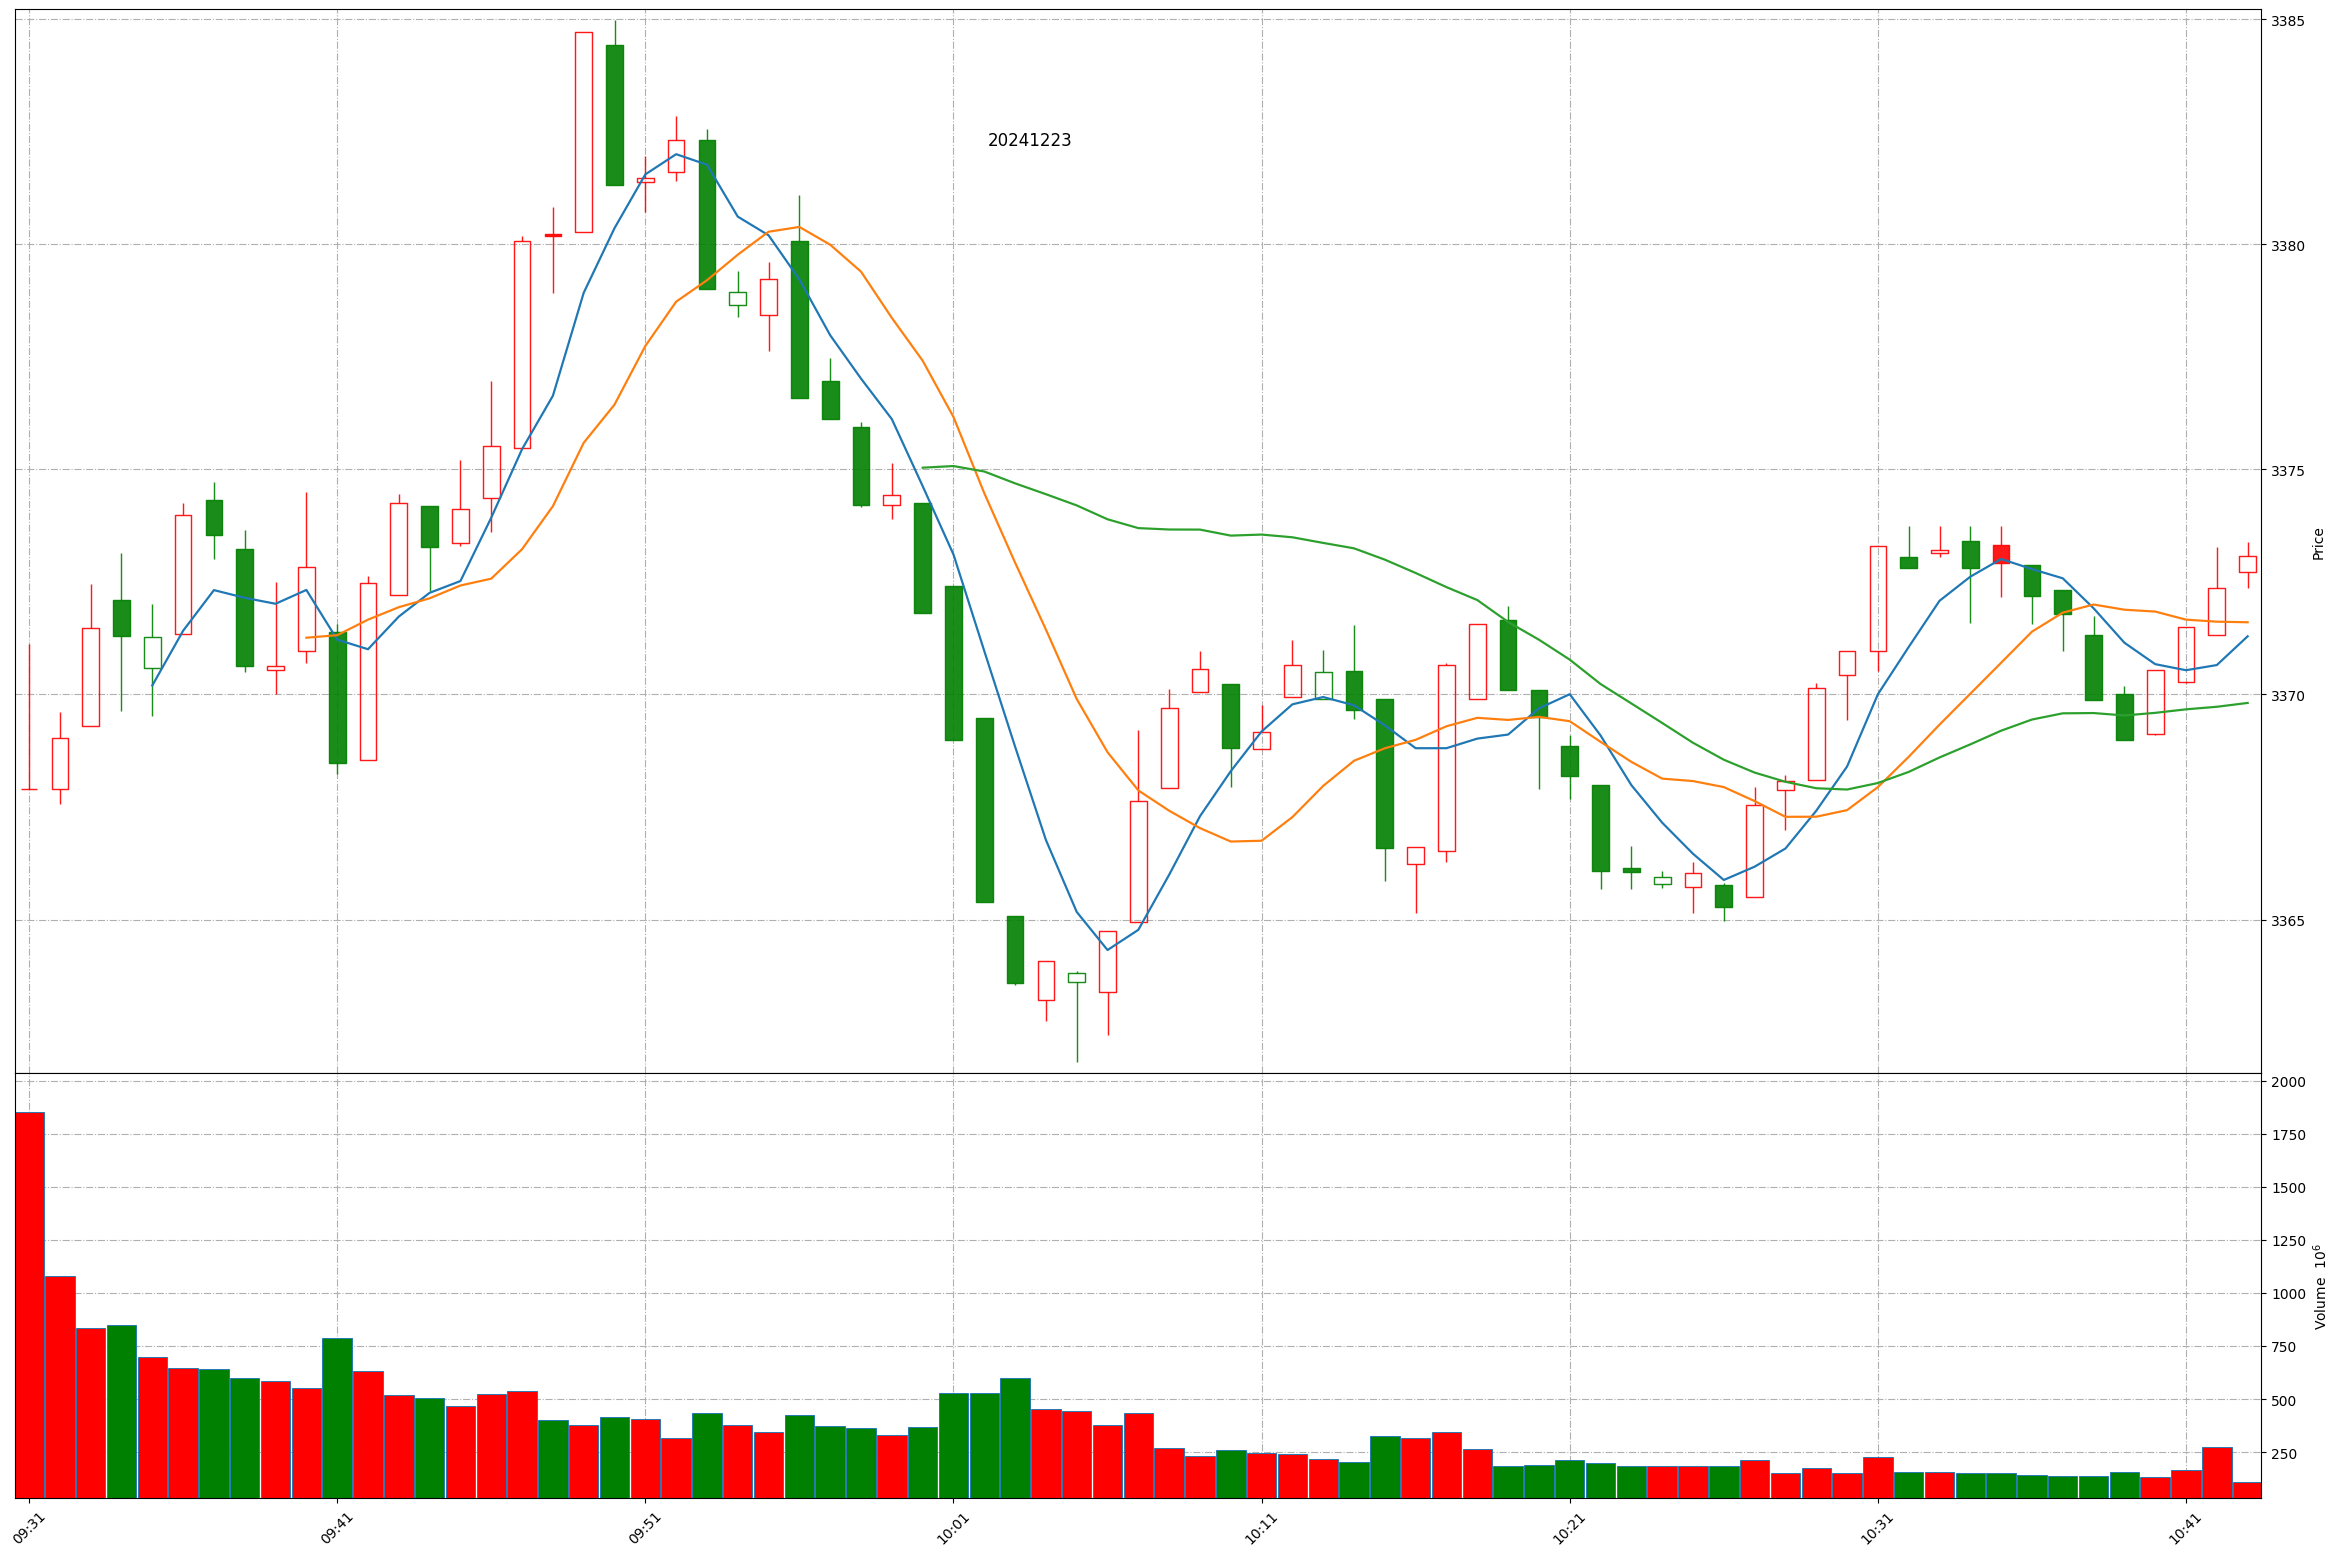
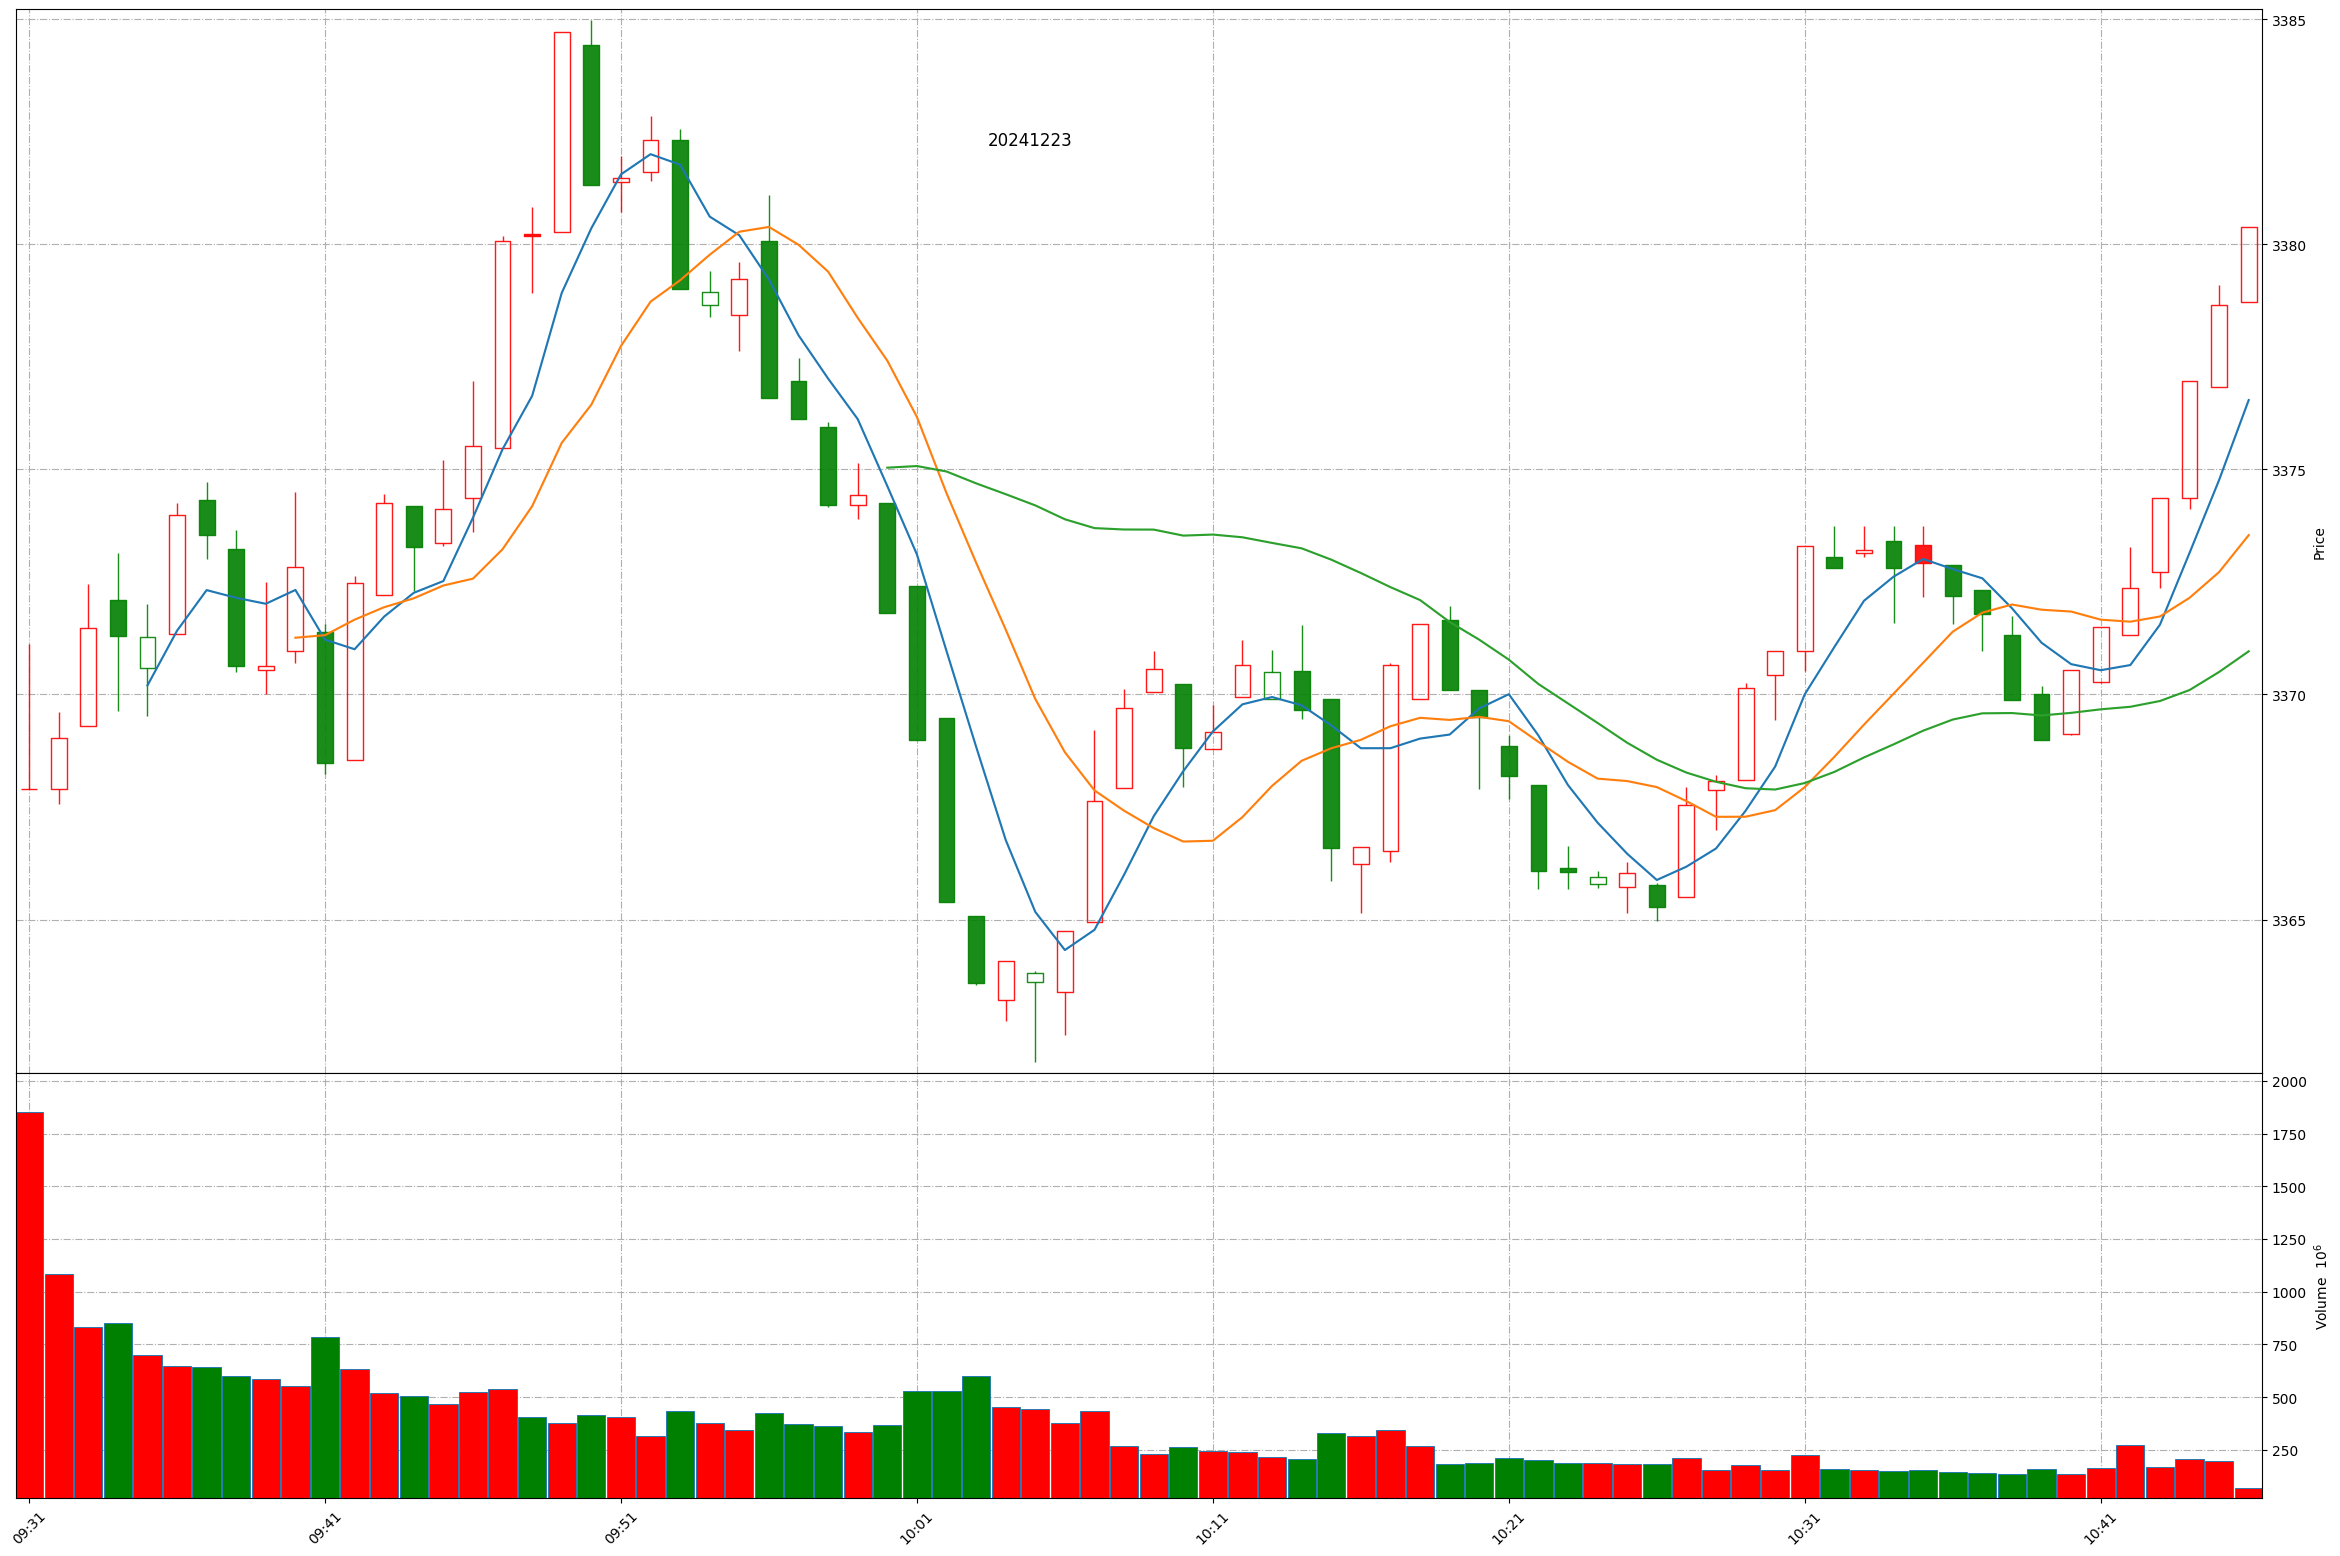
Github action update at 2024-12-23 10:45:32.

diff --git a/README.md b/README.md
@@ -1,11 +1,11 @@
 
 # Daily-A-share-market-quotes 每日 A 股指数（5min 更新）- 20241223
 
-### 上证指数 20241223 10:43
+### 上证指数 20241223 10:45
 ![](./fig/2024/12/20241223-sh000001.png)
 
-### 深证成指 20241223 10:43
+### 深证成指 20241223 10:45
 ![](./fig/2024/12/20241223-sz399001.png)
 
-### 北证50 20241223 10:43
+### 北证50 20241223 10:45
 ![](./fig/2024/12/20241223-bj899050.png)
